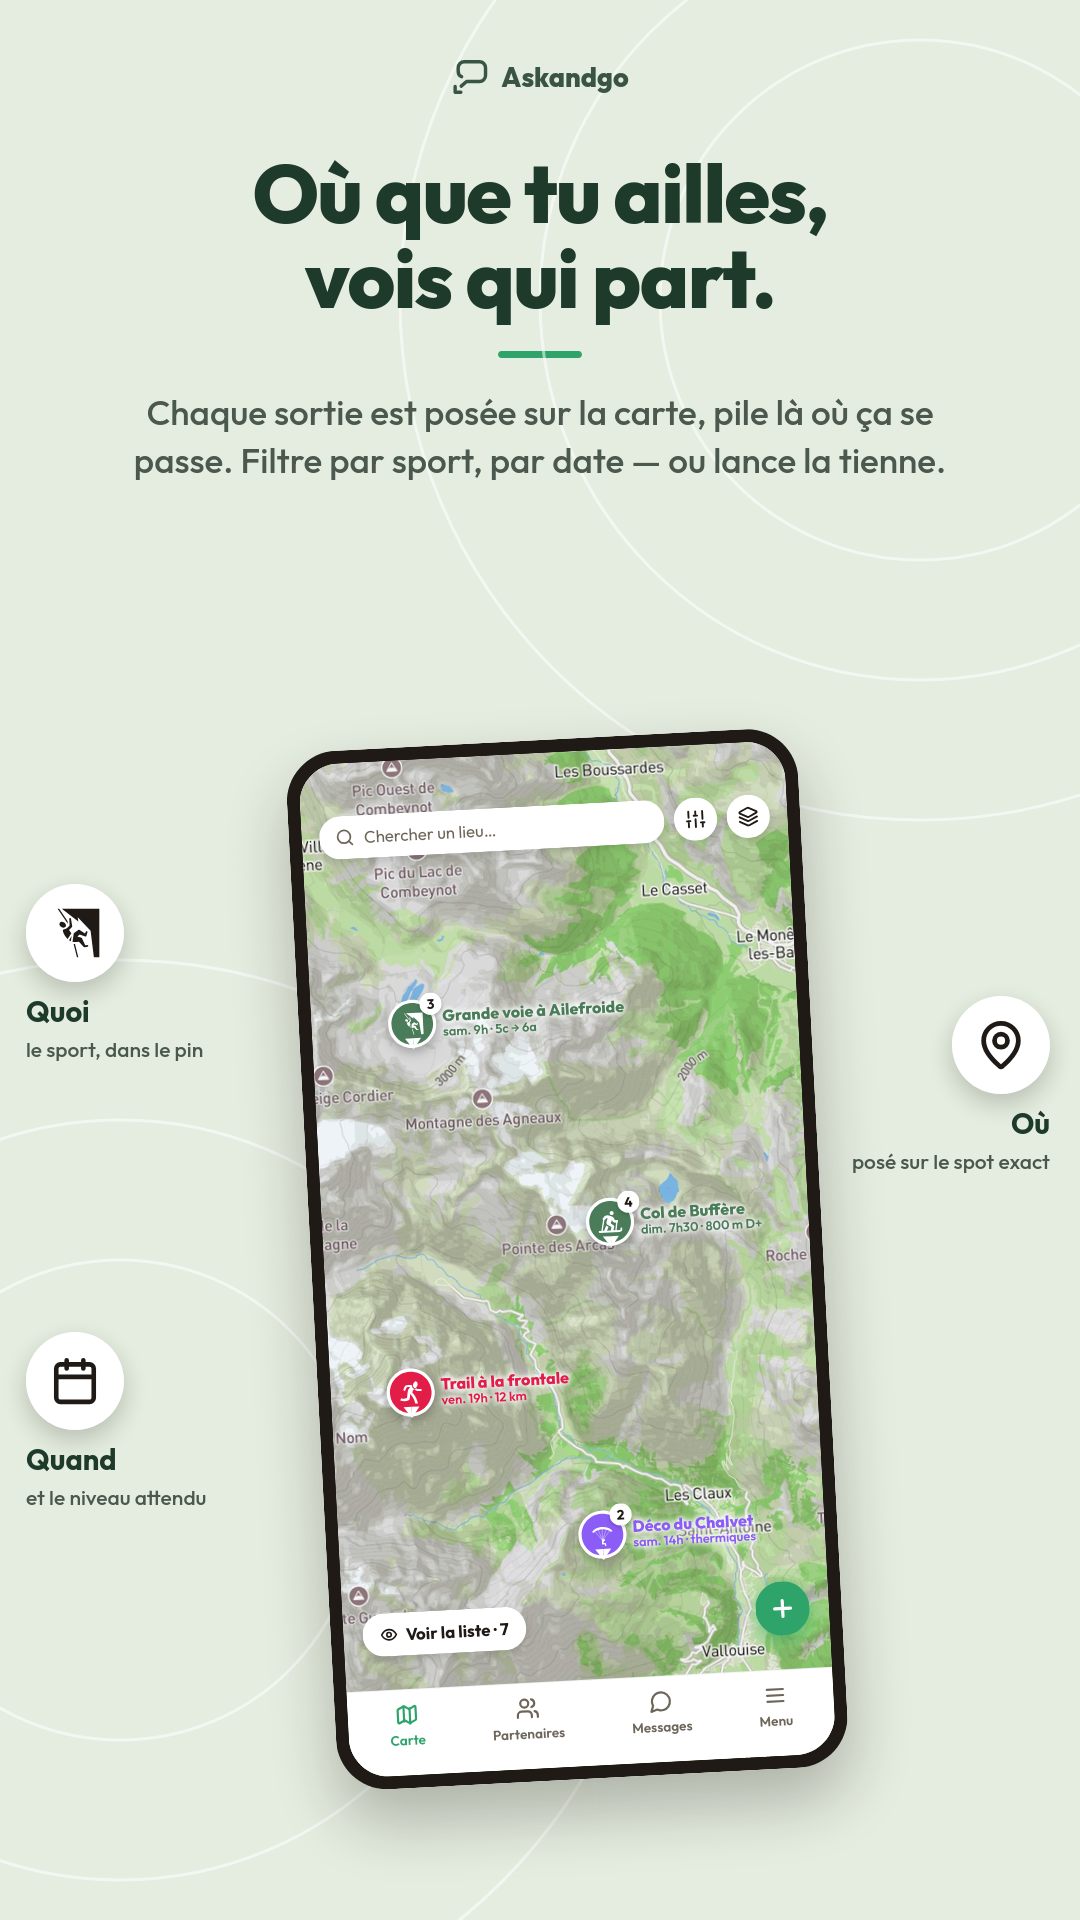
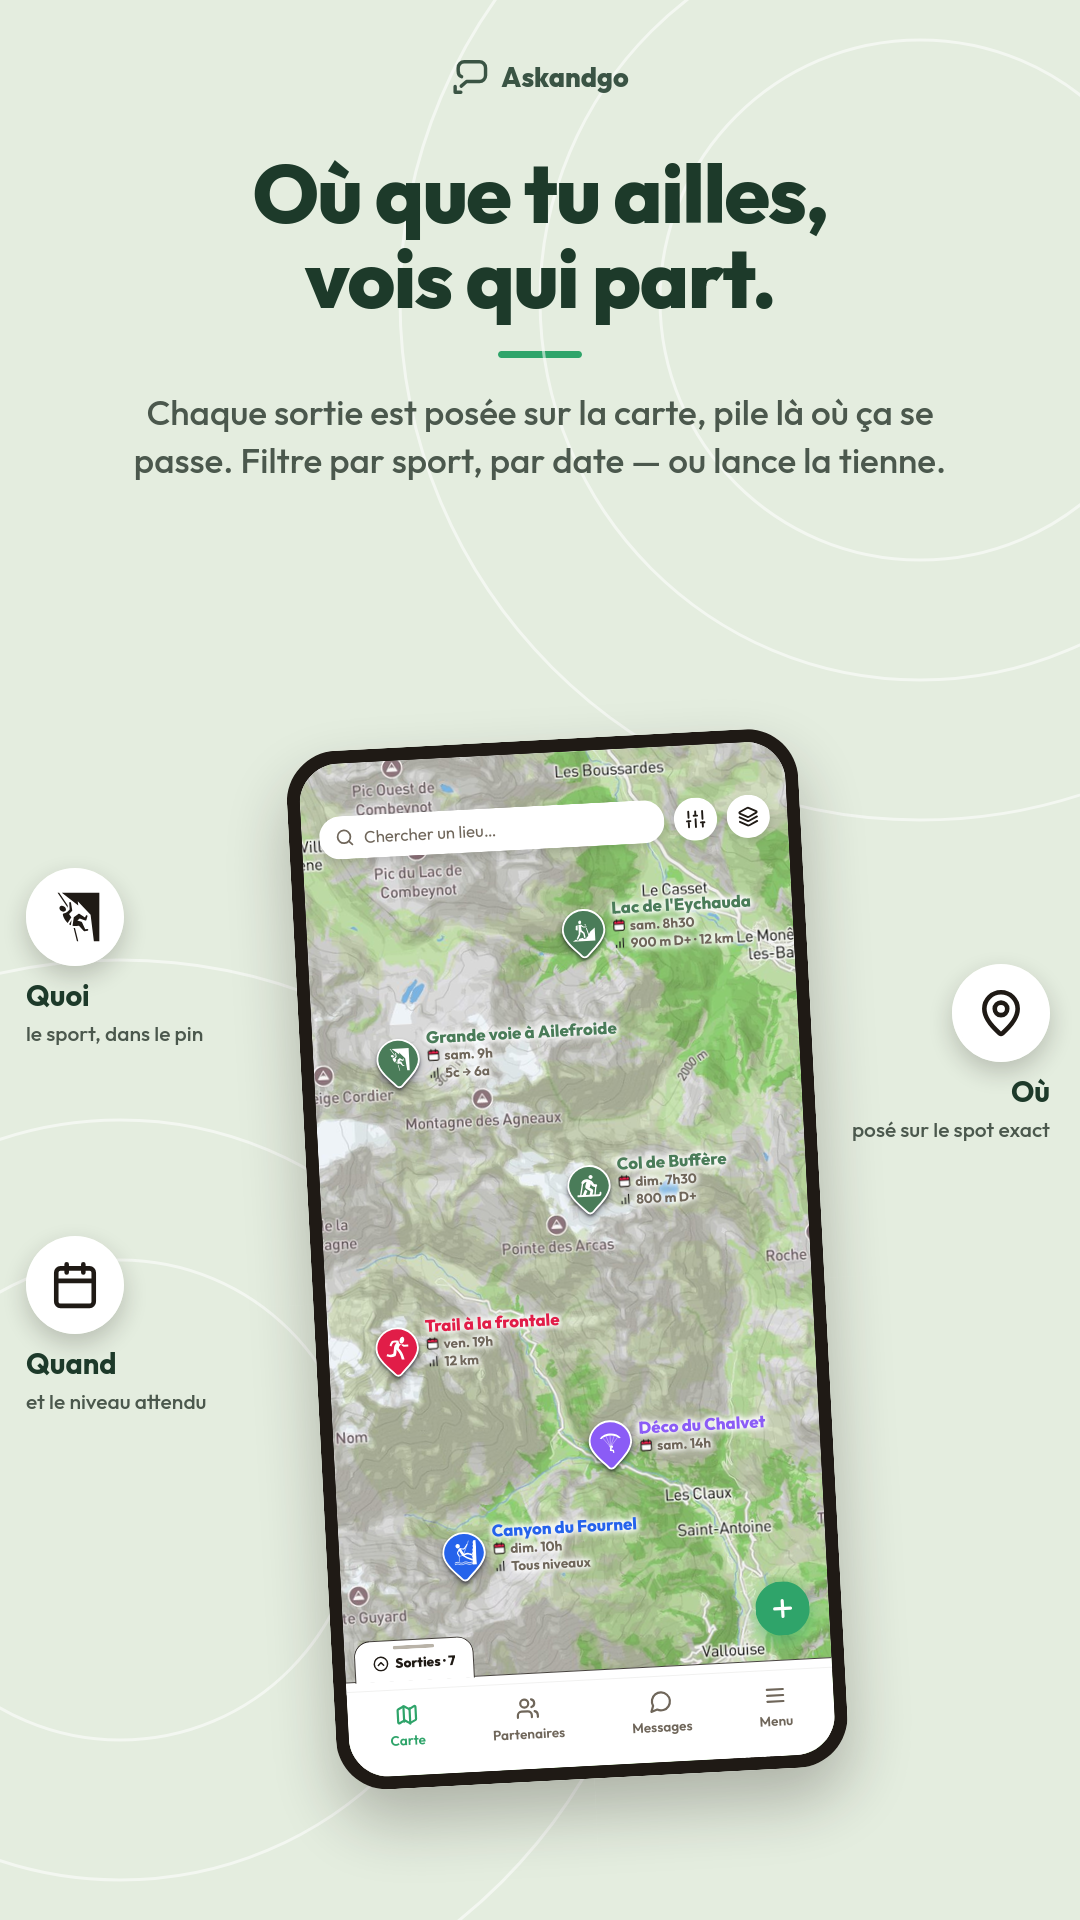
feat(play): image 1 « carte » redrawn with the real pins and labels (title · 📅 when · 📊 level), six outings, the list drawer's tab handle

diff --git a/assets/play-store/askandgo/carte1.py b/assets/play-store/askandgo/carte1.py
@@ -1,0 +1,66 @@
+# Play image 1 — « Où que tu ailles, vois qui part. » — redrawn 2026-10-27 with
+# the app's real pins (rounded drop, white outline, two-layer shadow, sport
+# picto), the real labels (title in the universe colour · 📅 when · 📊 level)
+# and the list drawer's tab handle instead of a « Voir la liste » pill.
+#   python3 carte1.py out.html && firefox --headless --window-size=1080,1920 --screenshot 1-carte.png file://…/out.html
+import os, sys
+S = os.path.dirname(os.path.abspath(__file__))
+ROOT = os.path.abspath(f'{S}/../../..')
+src = open(f'{S}/generate.py').read()
+exec(src[:src.index('out={}')])  # noqa: S102 — the generator's helpers (li, sp, screen, callout, tabbar…)
+
+DROP = 'M 27 3 C 15.4 3 6 12.2 6 23.5 C 6 33.5 18.5 43.5 24.6 50.2 C 25.9 51.6 28.1 51.6 29.4 50.2 C 35.5 43.5 48 33.5 48 23.5 C 48 12.2 38.6 3 27 3 Z'
+CAL = f'file://{ROOT}/assets/label-cal.png'
+LVL = f'file://{ROOT}/assets/label-level.png'
+PIN_PX = 64  # the 40-px drop of a 390-wide phone, in this 640-wide screen
+
+def drop(k):
+    c = UNI[k]
+    inner = IC[k].split('>', 1)[1].rsplit('</svg>', 1)[0]
+    vb = IC[k].split('viewBox="')[1].split('"')[0]
+    w = PIN_PX * 78 / 54
+    return f'''<svg width="{w:.0f}" height="{w * 82 / 78:.0f}" viewBox="-12 -14 78 82" style="display:block;overflow:visible">
+<defs><filter id="bf" x="-50%" y="-50%" width="200%" height="200%"><feGaussianBlur stdDeviation="4"/></filter><filter id="bn" x="-50%" y="-50%" width="200%" height="200%"><feGaussianBlur stdDeviation="1.2"/></filter></defs>
+<path d="{DROP}" fill="#0A0F1A" stroke="#0A0F1A" stroke-width="4" stroke-linejoin="round" opacity=".3" transform="translate(0 5)" filter="url(#bf)"/>
+<path d="{DROP}" fill="#0A0F1A" stroke="#0A0F1A" stroke-width="4" stroke-linejoin="round" opacity=".45" transform="translate(0 2)" filter="url(#bn)"/>
+<path d="{DROP}" fill="#FFF" stroke="#FFF" stroke-width="4" stroke-linejoin="round"/><path d="{DROP}" fill="{c}"/>
+<svg x="14" y="10" width="26" height="26" viewBox="{vb}" style="color:#FFF">{inner}</svg></svg>'''
+
+def realpin(k, x, y, title, when, lvl=None):
+    c = UNI[k]
+    halo = 'text-shadow:0 0 5px #FFF,0 0 5px #FFF,0 0 8px #FFF,0 0 10px #FFF'
+    lines = f'<div style="display:flex;align-items:center;gap:5px;font-size:17px;font-weight:700;color:{SEC};{halo}"><img src="{CAL}" style="width:17px;height:17px">{when}</div>'
+    if lvl:
+        lines += f'<div style="display:flex;align-items:center;gap:5px;font-size:17px;font-weight:700;color:{SEC};{halo}"><img src="{LVL}" style="width:17px;height:17px">{lvl}</div>'
+    return f'''<div style="position:absolute;left:{x}px;top:{y}px;display:flex;align-items:center;gap:0">{drop(k)}
+<div style="display:flex;flex-direction:column;gap:1px;white-space:nowrap;margin-left:-10px;margin-top:-18px"><div style="font-size:21px;font-weight:800;line-height:1.1;color:{c};{halo}">{title}</div>{lines}</div></div>'''
+
+# The list drawer's handle (activities-bottom-sheet TabHandle): the sheet's
+# top line with a rounded tab rising from it — grip, chevron, « Sorties · 7 ».
+def drawer_handle(bottom):
+    return f'''<div style="position:absolute;left:0;right:0;bottom:{bottom}px;height:16px;background:#FFF;border-top:1.5px solid {INK}"></div>
+<div style="position:absolute;left:12px;bottom:{bottom + 14}px;height:52px;padding:6px 22px 0;background:#FFF;border:1.5px solid {INK};border-bottom:none;border-radius:20px 20px 0 0;display:flex;flex-direction:column;align-items:center;gap:6px">
+ <div style="width:52px;height:5px;border-radius:3px;background:#B9B3A8"></div>
+ <div style="display:flex;align-items:center;gap:8px;font-size:17px;font-weight:800"><svg width="20" height="20" viewBox="0 0 24 24" fill="none" stroke="{INK}" stroke-width="2.2" stroke-linecap="round" stroke-linejoin="round"><circle cx="12" cy="12" r="10"/><path d="m8 14 4-4 4 4"/></svg>Sorties · 7</div></div>'''
+
+body = f'''<div style="position:absolute;inset:0;background:url({MAP}) center/cover"></div>
+<div style="position:absolute;left:22px;right:22px;top:66px;display:flex;gap:12px;align-items:center">
+ <div style="flex:1;display:flex;align-items:center;gap:12px;background:#FFF;border-radius:999px;padding:14px 20px;font-size:21px;color:{SEC};box-shadow:0 4px 12px rgba(0,0,0,.14)">{li('search',24,SEC)}Chercher un lieu…</div>
+ <div style="width:54px;height:54px;border-radius:50%;background:#FFF;display:flex;align-items:center;justify-content:center;box-shadow:0 4px 12px rgba(0,0,0,.14)">{li('sliders',26)}</div>
+ <div style="width:54px;height:54px;border-radius:50%;background:#FFF;display:flex;align-items:center;justify-content:center;box-shadow:0 4px 12px rgba(0,0,0,.14)">{li('layers',26)}</div></div>
+{realpin('hiking', 300, 180, "Lac de l'Eychauda", 'sam. 8h30', '900 m D+ · 12 km')}
+{realpin('climbing-sport', 60, 330, 'Grande voie à Ailefroide', 'sam. 9h', '5c → 6a')}
+{realpin('ski-touring', 290, 500, 'Col de Buffère', 'dim. 7h30', '800 m D+')}
+{realpin('trail-running', 40, 690, 'Trail à la frontale', 'ven. 19h', '12 km')}
+{realpin('paragliding', 300, 820, 'Déco du Chalvet', 'sam. 14h')}
+{realpin('canyoning', 110, 950, 'Canyon du Fournel', 'dim. 10h', 'Tous niveaux')}
+<div style="position:absolute;right:24px;bottom:150px"><div style="width:68px;height:68px;border-radius:50%;background:{GREEN};display:flex;align-items:center;justify-content:center;box-shadow:0 8px 20px rgba(47,164,106,.45)">{li('plus',34,'#FFF',2.8)}</div></div>
+{drawer_handle(104)}
+<div style="position:absolute;left:0;right:0;bottom:0">{tabbar(0)}</div>'''
+
+extra = (callout(26, 880, sp('climbing-sport', 54, INK), 'Quoi', 'le sport, dans le pin', 'left', 212)
+       + callout(838, 1000, li('pin', 50, INK), 'Où', 'posé sur le spot exact', 'right', 212)
+       + callout(26, 1340, li('cal', 50, INK), 'Quand', 'et le niveau attendu', 'left', 212))
+html = screen('Où que tu ailles,<br>vois qui part.', 'Chaque sortie est posée sur la carte, pile là où ça se passe. Filtre par sport, par date — ou lance la tienne.', body, extra)
+open(sys.argv[1], 'w').write(html)
+print('ok')
